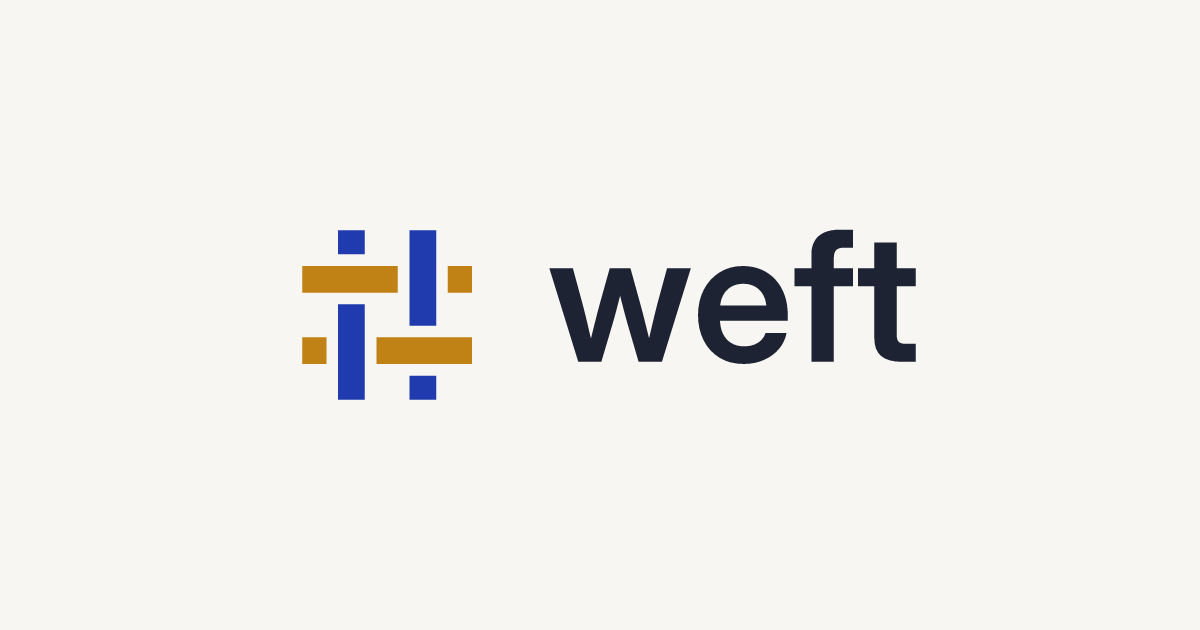
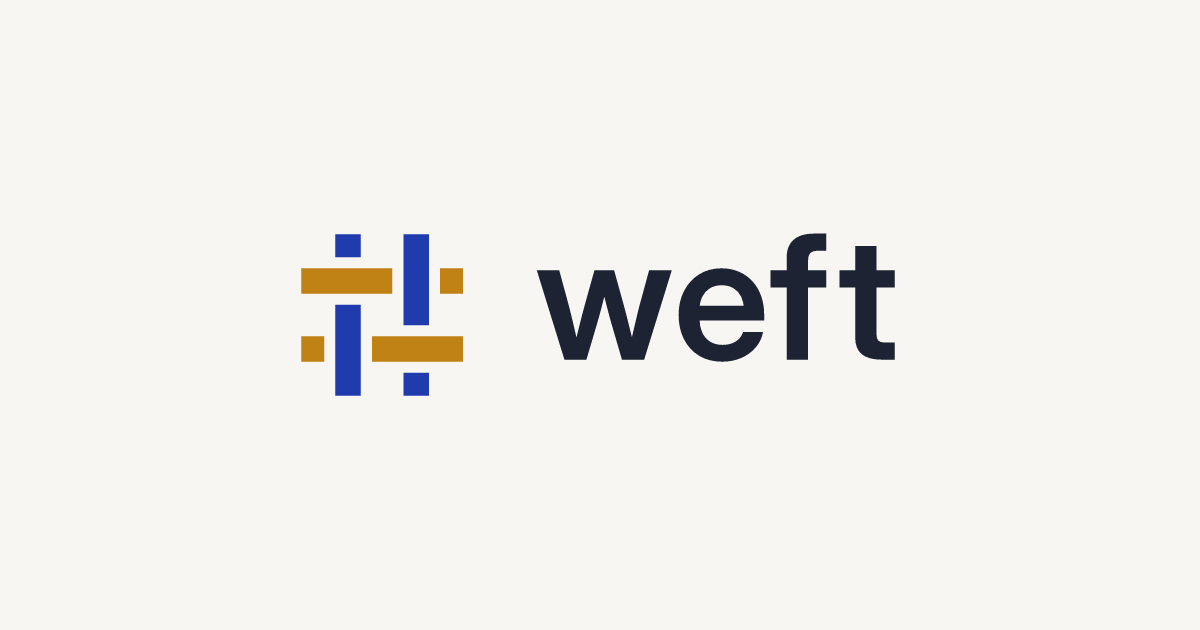
Brand: separate the f and t crossbars, add right margin to lockups
Inter's f and t crossbars nearly touch and read as one bar at small
sizes, most visibly light-on-dark. Lockups also ended flush at the t.

Changed region(s): [[0.4317, 0.3619, 0.7708, 0.573], [0.2467, 0.3619, 0.4008, 0.6333]]

diff --git a/public/index.html b/public/index.html
@@ -16,7 +16,7 @@
 </head>
 <body class="park">
   <main>
-    <h1><svg class="lockup" viewBox="0 0 143.423 48" role="img" aria-label="weft"><path class="weft" d="M5,13V19H26.4V13Z"/><path class="weft" d="M37.6,13V19H43V13Z"/><path class="weft" d="M5,29V35H10.4V29Z"/><path class="weft" d="M21.6,29V35H43V29Z"/><path class="warp" d="M13,5H19V10.4H13Z"/><path class="warp" d="M13,21.6H19V43H13Z"/><path class="warp" d="M29,5H35V26.4H29Z"/><path class="warp" d="M29,37.6H35V43H29Z"/><path class="ink" transform="translate(60 34.5) scale(0.0198864 -0.0198864)" d="M344.320556640625 0.0 17.760498046875 1056.0H282.876953125L391.7579345703125 655.357421875Q421.3179931640625 544.03759765625 448.55804443359375 425.73785400390625Q475.798095703125 307.4381103515625 503.358154296875 192.9583740234375H468.9185791015625Q497.9185791015625 307.4381103515625 527.0985717773438 425.73785400390625Q556.278564453125 544.03759765625 586.9185791015625 655.357421875L698.95947265625 1056.0H931.7568359375L1042.5177001953125 655.357421875Q1073.15771484375 544.03759765625 1102.0177001953125 425.73785400390625Q1130.877685546875 307.4381103515625 1159.877685546875 192.9583740234375H1124.238037109375Q1152.078125 307.4381103515625 1179.418212890625 425.557861328125Q1206.75830078125 543.6776123046875 1235.598388671875 655.357421875L1344.95947265625 1056.0H1612.955810546875L1286.395751953125 0.0H1024.1591796875L895.958740234375 439.681640625Q877.7586669921875 504.8419189453125 860.05859375 572.1821899414062Q842.3585205078125 639.5224609375 825.158447265625 707.9027099609375Q807.9583740234375 776.282958984375 789.75830078125 842.8831787109375H841.5980224609375Q823.7579345703125 776.282958984375 806.057861328125 707.9027099609375Q788.3577880859375 639.5224609375 770.8377075195312 572.1821899414062Q753.317626953125 504.8419189453125 734.1175537109375 439.681640625L603.9970703125 0.0Z M2209.1993408203125 -24.0Q2050.95947265625 -24.0 1935.1597290039062 46.82000732421875Q1819.3599853515625 117.6400146484375 1756.5001831054688 242.32000732421875Q1693.640380859375 367.0 1693.640380859375 526.719970703125Q1693.640380859375 688.0799560546875 1758.240234375 812.8999633789062Q1822.840087890625 937.719970703125 1936.7798461914062 1008.8599853515625Q2050.7196044921875 1080.0 2198.6392822265625 1080.0Q2312.9591064453125 1080.0 2405.9589233398438 1040.1799926757812Q2498.958740234375 1000.3599853515625 2565.9185791015625 926.8999633789062Q2632.87841796875 853.43994140625 2668.8983154296875 752.8399047851562Q2704.918212890625 652.2398681640625 2704.918212890625 530.6798095703125V462.0806884765625H1793.719970703125V636.1595458984375H2578.5994873046875L2465.64111328125 589.4793701171875Q2465.64111328125 678.7601318359375 2433.4408569335938 743.8607177734375Q2401.2406005859375 808.9613037109375 2342.400146484375 844.3616333007812Q2283.5596923828125 879.761962890625 2202.59912109375 879.761962890625Q2122.6385498046875 879.761962890625 2063.9381103515625 844.3616333007812Q2005.2376708984375 808.9613037109375 1973.0374145507812 743.8607177734375Q1940.837158203125 678.7601318359375 1940.837158203125 589.4793701171875V479.680908203125Q1940.837158203125 389.0401611328125 1972.9373779296875 320.1595458984375Q2005.03759765625 251.2789306640625 2066.4180297851562 212.95855712890625Q2127.7984619140625 174.63818359375 2214.9591064453125 174.63818359375Q2278.4395751953125 174.63818359375 2327.3399047851562 193.63836669921875Q2376.240234375 212.6385498046875 2408.8804321289062 246.89886474609375Q2441.5206298828125 281.1591796875 2455.720703125 326.4395751953125H2691.9580078125Q2672.3179931640625 222.919677734375 2604.63818359375 144.07977294921875Q2536.9583740234375 65.2398681640625 2434.898681640625 20.61993408203125Q2332.8389892578125 -24.0 2209.1993408203125 -24.0Z M3439.1964111328125 1056.0V853.122314453125H2780.7999267578125V1056.0ZM2970.9598388671875 0.0V1210.161376953125Q2970.9598388671875 1301.28076171875 3007.8397216796875 1363.48046875Q3044.7196044921875 1425.68017578125 3116.3992309570312 1457.840087890625Q3188.078857421875 1490.0 3292.1580810546875 1490.0Q3339.03759765625 1490.0 3381.3771362304688 1490.0Q3423.7166748046875 1490.0 3439.1964111328125 1490.0V1287.122314453125Q3427.676513671875 1287.122314453125 3395.45654296875 1287.122314453125Q3363.236572265625 1287.122314453125 3341.9967041015625 1287.122314453125Q3277.8765869140625 1287.122314453125 3250.8165283203125 1259.9222412109375Q3223.7564697265625 1232.72216796875 3223.7564697265625 1168.322021484375V0.0Z M4148.4366455078125 1056.0V853.122314453125H3495.7999267578125V1056.0ZM3680.2000732421875 1344.0H3932.9967041015625V302.798095703125Q3932.9967041015625 246.837890625 3955.976806640625 224.8577880859375Q3978.9569091796875 202.877685546875 4040.3570556640625 202.877685546875Q4064.7969970703125 202.877685546875 4096.69677734375 202.877685546875Q4128.5965576171875 202.877685546875 4148.4366455078125 202.877685546875V0.0Q4122.07666015625 0.0 4079.7371215820312 0.0Q4037.3975830078125 0.0 3996.2781982421875 0.0Q3834.3592529296875 0.0 3757.2796630859375 65.259765625Q3680.2000732421875 130.51953125 3680.2000732421875 266.078857421875Z"/></svg></h1>
+    <h1><svg class="lockup" viewBox="0 0 150.412 48" role="img" aria-label="weft"><path class="weft" d="M5,13V19H26.4V13Z"/><path class="weft" d="M37.6,13V19H43V13Z"/><path class="weft" d="M5,29V35H10.4V29Z"/><path class="weft" d="M21.6,29V35H43V29Z"/><path class="warp" d="M13,5H19V10.4H13Z"/><path class="warp" d="M13,21.6H19V43H13Z"/><path class="warp" d="M29,5H35V26.4H29Z"/><path class="warp" d="M29,37.6H35V43H29Z"/><path class="ink" transform="translate(60 34.5) scale(0.0198864 -0.0198864)" d="M344.320556640625 0.0 17.760498046875 1056.0H282.876953125L391.7579345703125 655.357421875Q421.3179931640625 544.03759765625 448.55804443359375 425.73785400390625Q475.798095703125 307.4381103515625 503.358154296875 192.9583740234375H468.9185791015625Q497.9185791015625 307.4381103515625 527.0985717773438 425.73785400390625Q556.278564453125 544.03759765625 586.9185791015625 655.357421875L698.95947265625 1056.0H931.7568359375L1042.5177001953125 655.357421875Q1073.15771484375 544.03759765625 1102.0177001953125 425.73785400390625Q1130.877685546875 307.4381103515625 1159.877685546875 192.9583740234375H1124.238037109375Q1152.078125 307.4381103515625 1179.418212890625 425.557861328125Q1206.75830078125 543.6776123046875 1235.598388671875 655.357421875L1344.95947265625 1056.0H1612.955810546875L1286.395751953125 0.0H1024.1591796875L895.958740234375 439.681640625Q877.7586669921875 504.8419189453125 860.05859375 572.1821899414062Q842.3585205078125 639.5224609375 825.158447265625 707.9027099609375Q807.9583740234375 776.282958984375 789.75830078125 842.8831787109375H841.5980224609375Q823.7579345703125 776.282958984375 806.057861328125 707.9027099609375Q788.3577880859375 639.5224609375 770.8377075195312 572.1821899414062Q753.317626953125 504.8419189453125 734.1175537109375 439.681640625L603.9970703125 0.0Z M2209.1993408203125 -24.0Q2050.95947265625 -24.0 1935.1597290039062 46.82000732421875Q1819.3599853515625 117.6400146484375 1756.5001831054688 242.32000732421875Q1693.640380859375 367.0 1693.640380859375 526.719970703125Q1693.640380859375 688.0799560546875 1758.240234375 812.8999633789062Q1822.840087890625 937.719970703125 1936.7798461914062 1008.8599853515625Q2050.7196044921875 1080.0 2198.6392822265625 1080.0Q2312.9591064453125 1080.0 2405.9589233398438 1040.1799926757812Q2498.958740234375 1000.3599853515625 2565.9185791015625 926.8999633789062Q2632.87841796875 853.43994140625 2668.8983154296875 752.8399047851562Q2704.918212890625 652.2398681640625 2704.918212890625 530.6798095703125V462.0806884765625H1793.719970703125V636.1595458984375H2578.5994873046875L2465.64111328125 589.4793701171875Q2465.64111328125 678.7601318359375 2433.4408569335938 743.8607177734375Q2401.2406005859375 808.9613037109375 2342.400146484375 844.3616333007812Q2283.5596923828125 879.761962890625 2202.59912109375 879.761962890625Q2122.6385498046875 879.761962890625 2063.9381103515625 844.3616333007812Q2005.2376708984375 808.9613037109375 1973.0374145507812 743.8607177734375Q1940.837158203125 678.7601318359375 1940.837158203125 589.4793701171875V479.680908203125Q1940.837158203125 389.0401611328125 1972.9373779296875 320.1595458984375Q2005.03759765625 251.2789306640625 2066.4180297851562 212.95855712890625Q2127.7984619140625 174.63818359375 2214.9591064453125 174.63818359375Q2278.4395751953125 174.63818359375 2327.3399047851562 193.63836669921875Q2376.240234375 212.6385498046875 2408.8804321289062 246.89886474609375Q2441.5206298828125 281.1591796875 2455.720703125 326.4395751953125H2691.9580078125Q2672.3179931640625 222.919677734375 2604.63818359375 144.07977294921875Q2536.9583740234375 65.2398681640625 2434.898681640625 20.61993408203125Q2332.8389892578125 -24.0 2209.1993408203125 -24.0Z M3439.1964111328125 1056.0V853.122314453125H2780.7999267578125V1056.0ZM2970.9598388671875 0.0V1210.161376953125Q2970.9598388671875 1301.28076171875 3007.8397216796875 1363.48046875Q3044.7196044921875 1425.68017578125 3116.3992309570312 1457.840087890625Q3188.078857421875 1490.0 3292.1580810546875 1490.0Q3339.03759765625 1490.0 3381.3771362304688 1490.0Q3423.7166748046875 1490.0 3439.1964111328125 1490.0V1287.122314453125Q3427.676513671875 1287.122314453125 3395.45654296875 1287.122314453125Q3363.236572265625 1287.122314453125 3341.9967041015625 1287.122314453125Q3277.8765869140625 1287.122314453125 3250.8165283203125 1259.9222412109375Q3223.7564697265625 1232.72216796875 3223.7564697265625 1168.322021484375V0.0Z M4248.4366455078125 1056.0V853.122314453125H3595.7999267578125V1056.0ZM3780.2000732421875 1344.0H4032.9967041015625V302.798095703125Q4032.9967041015625 246.837890625 4055.976806640625 224.8577880859375Q4078.9569091796875 202.877685546875 4140.3570556640625 202.877685546875Q4164.7969970703125 202.877685546875 4196.69677734375 202.877685546875Q4228.5965576171875 202.877685546875 4248.4366455078125 202.877685546875V0.0Q4222.07666015625 0.0 4179.737121582031 0.0Q4137.3975830078125 0.0 4096.2781982421875 0.0Q3934.3592529296875 0.0 3857.2796630859375 65.259765625Q3780.2000732421875 130.51953125 3780.2000732421875 266.078857421875Z"/></svg></h1>
     <p class="tagline">Weaving existing open tools into one end-to-end platform for embedded device fleets: offline by design, every layer swappable.</p>
     <p class="status">Early design. Nothing to install yet.</p>
     <nav class="links" aria-label="Links">

diff --git a/brand/lockup-inline.html b/brand/lockup-inline.html
@@ -1,1 +1,1 @@
-<svg class="lockup" viewBox="0 0 143.423 48" role="img" aria-label="weft"><path class="weft" d="M5,13V19H26.4V13Z"/><path class="weft" d="M37.6,13V19H43V13Z"/><path class="weft" d="M5,29V35H10.4V29Z"/><path class="weft" d="M21.6,29V35H43V29Z"/><path class="warp" d="M13,5H19V10.4H13Z"/><path class="warp" d="M13,21.6H19V43H13Z"/><path class="warp" d="M29,5H35V26.4H29Z"/><path class="warp" d="M29,37.6H35V43H29Z"/><path class="ink" transform="translate(60 34.5) scale(0.0198864 -0.0198864)" d="M344.320556640625 0.0 17.760498046875 1056.0H282.876953125L391.7579345703125 655.357421875Q421.3179931640625 544.03759765625 448.55804443359375 425.73785400390625Q475.798095703125 307.4381103515625 503.358154296875 192.9583740234375H468.9185791015625Q497.9185791015625 307.4381103515625 527.0985717773438 425.73785400390625Q556.278564453125 544.03759765625 586.9185791015625 655.357421875L698.95947265625 1056.0H931.7568359375L1042.5177001953125 655.357421875Q1073.15771484375 544.03759765625 1102.0177001953125 425.73785400390625Q1130.877685546875 307.4381103515625 1159.877685546875 192.9583740234375H1124.238037109375Q1152.078125 307.4381103515625 1179.418212890625 425.557861328125Q1206.75830078125 543.6776123046875 1235.598388671875 655.357421875L1344.95947265625 1056.0H1612.955810546875L1286.395751953125 0.0H1024.1591796875L895.958740234375 439.681640625Q877.7586669921875 504.8419189453125 860.05859375 572.1821899414062Q842.3585205078125 639.5224609375 825.158447265625 707.9027099609375Q807.9583740234375 776.282958984375 789.75830078125 842.8831787109375H841.5980224609375Q823.7579345703125 776.282958984375 806.057861328125 707.9027099609375Q788.3577880859375 639.5224609375 770.8377075195312 572.1821899414062Q753.317626953125 504.8419189453125 734.1175537109375 439.681640625L603.9970703125 0.0Z M2209.1993408203125 -24.0Q2050.95947265625 -24.0 1935.1597290039062 46.82000732421875Q1819.3599853515625 117.6400146484375 1756.5001831054688 242.32000732421875Q1693.640380859375 367.0 1693.640380859375 526.719970703125Q1693.640380859375 688.0799560546875 1758.240234375 812.8999633789062Q1822.840087890625 937.719970703125 1936.7798461914062 1008.8599853515625Q2050.7196044921875 1080.0 2198.6392822265625 1080.0Q2312.9591064453125 1080.0 2405.9589233398438 1040.1799926757812Q2498.958740234375 1000.3599853515625 2565.9185791015625 926.8999633789062Q2632.87841796875 853.43994140625 2668.8983154296875 752.8399047851562Q2704.918212890625 652.2398681640625 2704.918212890625 530.6798095703125V462.0806884765625H1793.719970703125V636.1595458984375H2578.5994873046875L2465.64111328125 589.4793701171875Q2465.64111328125 678.7601318359375 2433.4408569335938 743.8607177734375Q2401.2406005859375 808.9613037109375 2342.400146484375 844.3616333007812Q2283.5596923828125 879.761962890625 2202.59912109375 879.761962890625Q2122.6385498046875 879.761962890625 2063.9381103515625 844.3616333007812Q2005.2376708984375 808.9613037109375 1973.0374145507812 743.8607177734375Q1940.837158203125 678.7601318359375 1940.837158203125 589.4793701171875V479.680908203125Q1940.837158203125 389.0401611328125 1972.9373779296875 320.1595458984375Q2005.03759765625 251.2789306640625 2066.4180297851562 212.95855712890625Q2127.7984619140625 174.63818359375 2214.9591064453125 174.63818359375Q2278.4395751953125 174.63818359375 2327.3399047851562 193.63836669921875Q2376.240234375 212.6385498046875 2408.8804321289062 246.89886474609375Q2441.5206298828125 281.1591796875 2455.720703125 326.4395751953125H2691.9580078125Q2672.3179931640625 222.919677734375 2604.63818359375 144.07977294921875Q2536.9583740234375 65.2398681640625 2434.898681640625 20.61993408203125Q2332.8389892578125 -24.0 2209.1993408203125 -24.0Z M3439.1964111328125 1056.0V853.122314453125H2780.7999267578125V1056.0ZM2970.9598388671875 0.0V1210.161376953125Q2970.9598388671875 1301.28076171875 3007.8397216796875 1363.48046875Q3044.7196044921875 1425.68017578125 3116.3992309570312 1457.840087890625Q3188.078857421875 1490.0 3292.1580810546875 1490.0Q3339.03759765625 1490.0 3381.3771362304688 1490.0Q3423.7166748046875 1490.0 3439.1964111328125 1490.0V1287.122314453125Q3427.676513671875 1287.122314453125 3395.45654296875 1287.122314453125Q3363.236572265625 1287.122314453125 3341.9967041015625 1287.122314453125Q3277.8765869140625 1287.122314453125 3250.8165283203125 1259.9222412109375Q3223.7564697265625 1232.72216796875 3223.7564697265625 1168.322021484375V0.0Z M4148.4366455078125 1056.0V853.122314453125H3495.7999267578125V1056.0ZM3680.2000732421875 1344.0H3932.9967041015625V302.798095703125Q3932.9967041015625 246.837890625 3955.976806640625 224.8577880859375Q3978.9569091796875 202.877685546875 4040.3570556640625 202.877685546875Q4064.7969970703125 202.877685546875 4096.69677734375 202.877685546875Q4128.5965576171875 202.877685546875 4148.4366455078125 202.877685546875V0.0Q4122.07666015625 0.0 4079.7371215820312 0.0Q4037.3975830078125 0.0 3996.2781982421875 0.0Q3834.3592529296875 0.0 3757.2796630859375 65.259765625Q3680.2000732421875 130.51953125 3680.2000732421875 266.078857421875Z"/></svg>
+<svg class="lockup" viewBox="0 0 150.412 48" role="img" aria-label="weft"><path class="weft" d="M5,13V19H26.4V13Z"/><path class="weft" d="M37.6,13V19H43V13Z"/><path class="weft" d="M5,29V35H10.4V29Z"/><path class="weft" d="M21.6,29V35H43V29Z"/><path class="warp" d="M13,5H19V10.4H13Z"/><path class="warp" d="M13,21.6H19V43H13Z"/><path class="warp" d="M29,5H35V26.4H29Z"/><path class="warp" d="M29,37.6H35V43H29Z"/><path class="ink" transform="translate(60 34.5) scale(0.0198864 -0.0198864)" d="M344.320556640625 0.0 17.760498046875 1056.0H282.876953125L391.7579345703125 655.357421875Q421.3179931640625 544.03759765625 448.55804443359375 425.73785400390625Q475.798095703125 307.4381103515625 503.358154296875 192.9583740234375H468.9185791015625Q497.9185791015625 307.4381103515625 527.0985717773438 425.73785400390625Q556.278564453125 544.03759765625 586.9185791015625 655.357421875L698.95947265625 1056.0H931.7568359375L1042.5177001953125 655.357421875Q1073.15771484375 544.03759765625 1102.0177001953125 425.73785400390625Q1130.877685546875 307.4381103515625 1159.877685546875 192.9583740234375H1124.238037109375Q1152.078125 307.4381103515625 1179.418212890625 425.557861328125Q1206.75830078125 543.6776123046875 1235.598388671875 655.357421875L1344.95947265625 1056.0H1612.955810546875L1286.395751953125 0.0H1024.1591796875L895.958740234375 439.681640625Q877.7586669921875 504.8419189453125 860.05859375 572.1821899414062Q842.3585205078125 639.5224609375 825.158447265625 707.9027099609375Q807.9583740234375 776.282958984375 789.75830078125 842.8831787109375H841.5980224609375Q823.7579345703125 776.282958984375 806.057861328125 707.9027099609375Q788.3577880859375 639.5224609375 770.8377075195312 572.1821899414062Q753.317626953125 504.8419189453125 734.1175537109375 439.681640625L603.9970703125 0.0Z M2209.1993408203125 -24.0Q2050.95947265625 -24.0 1935.1597290039062 46.82000732421875Q1819.3599853515625 117.6400146484375 1756.5001831054688 242.32000732421875Q1693.640380859375 367.0 1693.640380859375 526.719970703125Q1693.640380859375 688.0799560546875 1758.240234375 812.8999633789062Q1822.840087890625 937.719970703125 1936.7798461914062 1008.8599853515625Q2050.7196044921875 1080.0 2198.6392822265625 1080.0Q2312.9591064453125 1080.0 2405.9589233398438 1040.1799926757812Q2498.958740234375 1000.3599853515625 2565.9185791015625 926.8999633789062Q2632.87841796875 853.43994140625 2668.8983154296875 752.8399047851562Q2704.918212890625 652.2398681640625 2704.918212890625 530.6798095703125V462.0806884765625H1793.719970703125V636.1595458984375H2578.5994873046875L2465.64111328125 589.4793701171875Q2465.64111328125 678.7601318359375 2433.4408569335938 743.8607177734375Q2401.2406005859375 808.9613037109375 2342.400146484375 844.3616333007812Q2283.5596923828125 879.761962890625 2202.59912109375 879.761962890625Q2122.6385498046875 879.761962890625 2063.9381103515625 844.3616333007812Q2005.2376708984375 808.9613037109375 1973.0374145507812 743.8607177734375Q1940.837158203125 678.7601318359375 1940.837158203125 589.4793701171875V479.680908203125Q1940.837158203125 389.0401611328125 1972.9373779296875 320.1595458984375Q2005.03759765625 251.2789306640625 2066.4180297851562 212.95855712890625Q2127.7984619140625 174.63818359375 2214.9591064453125 174.63818359375Q2278.4395751953125 174.63818359375 2327.3399047851562 193.63836669921875Q2376.240234375 212.6385498046875 2408.8804321289062 246.89886474609375Q2441.5206298828125 281.1591796875 2455.720703125 326.4395751953125H2691.9580078125Q2672.3179931640625 222.919677734375 2604.63818359375 144.07977294921875Q2536.9583740234375 65.2398681640625 2434.898681640625 20.61993408203125Q2332.8389892578125 -24.0 2209.1993408203125 -24.0Z M3439.1964111328125 1056.0V853.122314453125H2780.7999267578125V1056.0ZM2970.9598388671875 0.0V1210.161376953125Q2970.9598388671875 1301.28076171875 3007.8397216796875 1363.48046875Q3044.7196044921875 1425.68017578125 3116.3992309570312 1457.840087890625Q3188.078857421875 1490.0 3292.1580810546875 1490.0Q3339.03759765625 1490.0 3381.3771362304688 1490.0Q3423.7166748046875 1490.0 3439.1964111328125 1490.0V1287.122314453125Q3427.676513671875 1287.122314453125 3395.45654296875 1287.122314453125Q3363.236572265625 1287.122314453125 3341.9967041015625 1287.122314453125Q3277.8765869140625 1287.122314453125 3250.8165283203125 1259.9222412109375Q3223.7564697265625 1232.72216796875 3223.7564697265625 1168.322021484375V0.0Z M4248.4366455078125 1056.0V853.122314453125H3595.7999267578125V1056.0ZM3780.2000732421875 1344.0H4032.9967041015625V302.798095703125Q4032.9967041015625 246.837890625 4055.976806640625 224.8577880859375Q4078.9569091796875 202.877685546875 4140.3570556640625 202.877685546875Q4164.7969970703125 202.877685546875 4196.69677734375 202.877685546875Q4228.5965576171875 202.877685546875 4248.4366455078125 202.877685546875V0.0Q4222.07666015625 0.0 4179.737121582031 0.0Q4137.3975830078125 0.0 4096.2781982421875 0.0Q3934.3592529296875 0.0 3857.2796630859375 65.259765625Q3780.2000732421875 130.51953125 3780.2000732421875 266.078857421875Z"/></svg>

diff --git a/brand/generate.py b/brand/generate.py
@@ -30,6 +30,8 @@ LIGHT_BG, DARK_BG = "#f7f6f2", "#11151f"
 # Mark geometry on a 48-unit grid: 2x2 plain weave, square ends, real gaps.
 SIZE, W, GAP, PITCH, LO, HI = 48, 6, 2.6, 16, 5, 43
 WORD_WEIGHT = 600  # Inter weight for the wordmark
+# Extra space between letter pairs, in font units: Inter's f and t crossbars almost touch.
+KERN = {("f", "t"): 100}
 
 
 def mark_paths():
@@ -74,7 +76,8 @@ def word_outline(font, text):
     glyphs = font.getGlyphSet()
     cmap = font.getBestCmap()
     x, parts = 0, []
-    for ch in text:
+    for i, ch in enumerate(text):
+        x += KERN.get((text[i - 1], ch), 0) if i else 0
         name = cmap[ord(ch)]
         pen = SVGPathPen(glyphs)
         glyphs[name].draw(TransformPen(pen, (1, 0, 0, 1, x, 0)))
@@ -123,7 +126,7 @@ def main(font_path):
         s = 21 / x_height
         mark_h, gap = 48, 12
         baseline = SIZE / 2 + 10.5
-        width = mark_h + gap + advance * s
+        width = mark_h + gap + advance * s + LO  # right margin matches the mark's left margin
         write(f"lockup-horizontal-{tag}.svg", svg(width, mark_h, mark_group(p) + word_group(word, p, mark_h + gap, baseline, s)))
 
         # Stacked lockup: mark above, wordmark centred below.
@@ -146,7 +149,7 @@ def main(font_path):
 
     # Social preview (Open Graph), 1200 x 630: horizontal lockup centred on the light background.
     s = 21 / x_height
-    lock_w = 48 + 12 + advance * s
+    lock_w = 48 + 12 + advance * s + LO
     scale = 640 / lock_w
     og = svg(
         1200, 630,
@@ -179,7 +182,7 @@ def main(font_path):
     # Inline horizontal lockup for the start page heading (colours from CSS custom properties).
     s = 21 / x_height
     d, _, _ = word
-    lock_w = 48 + 12 + advance * s
+    lock_w = 48 + 12 + advance * s + LO
     lockup = (
         f'<svg class="lockup" viewBox="0 0 {lock_w:g} 48" role="img" aria-label="weft">'
         + "".join(f'<path class="{kind}" d="{pd}"/>' for kind, pd in mark_paths())
